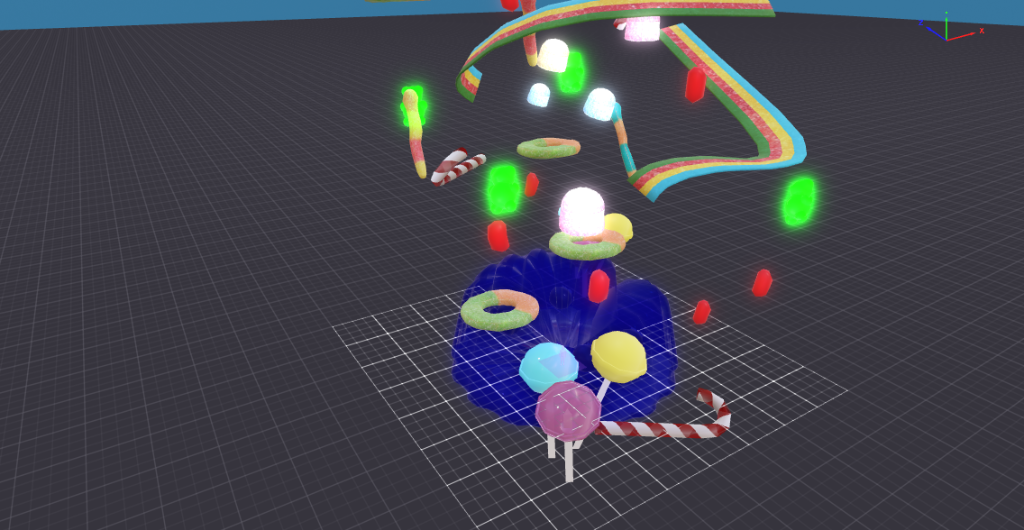
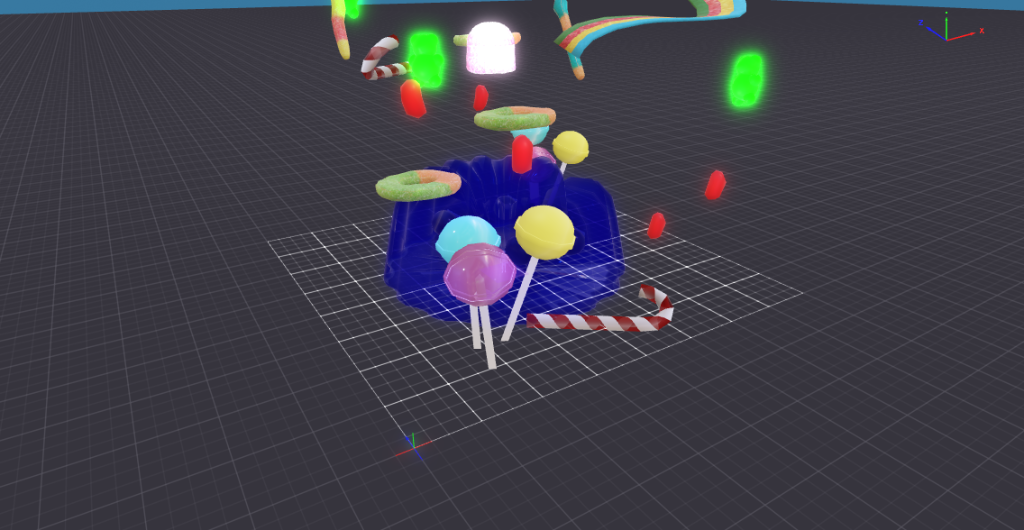
Update Candy Rush UI polish

diff --git a/src/ui.tsx b/src/ui.tsx
@@ -275,7 +275,7 @@ function handleCloseFinish() {
 }
 
 // ── Palette ───────────────────────────────────────────────────────────────────
-const RED = { r: 0.2, g: 1, b: 0.3, a: 1 }
+const RED = { r: 0.259, g: 0.384, b: 0.153, a: 1 }
 const BLUE = { r: 0.6, g: 0.2, b: 0.8, a: 1 }
 const GOLD = { r: 1, g: 0.84, b: 0, a: 1 }
 const WHT = { r: 1, g: 1, b: 1, a: 1 }
@@ -294,7 +294,7 @@ export const uiMenu = () => {
       ? { ...RED, a: popupAlpha }
       : _popupTeam === 'blue'
         ? { ...BLUE, a: popupAlpha }
-        : { r: 1, g: 0.9, b: 0.2, a: popupAlpha }
+        : { ...RED, a: popupAlpha }
   const popupText = _popupTeam === 'red' ? '+1  GREEN' : _popupTeam === 'blue' ? '+1  PURPLE' : '+ 1  Collected!'
 
   const teamColor = _localTeam === 'red' ? RED : BLUE
@@ -674,17 +674,19 @@ export const uiMenu = () => {
                 }}
                 onMouseDown={() => _modeSelectCallback?.('team')}
               />
-              <UiEntity
-                uiTransform={{
-                  width: _modeMenuCompact ? 236 : 328,
-                  height: _modeMenuCompact ? 27 : 37,
-                  margin: { bottom: _modeMenuCompact ? 11 : 15 }
-                }}
-                uiBackground={{
-                  textureMode: 'stretch',
-                  texture: { src: 'assets/ui/choosemodeui/teamvsteamdescription.png' }
-                }}
-              />
+              {!_modeMenuCompact && (
+                <UiEntity
+                  uiTransform={{
+                    width: 328,
+                    height: 37,
+                    margin: { bottom: 15 }
+                  }}
+                  uiBackground={{
+                    textureMode: 'stretch',
+                    texture: { src: 'assets/ui/choosemodeui/teamvsteamdescription.png' }
+                  }}
+                />
+              )}
             </UiEntity>
             <UiEntity uiTransform={{ flexDirection: 'column', alignItems: 'center', width: '100%' }}>
               <UiEntity
@@ -696,17 +698,19 @@ export const uiMenu = () => {
                 uiBackground={{ textureMode: 'stretch', texture: { src: 'assets/ui/choosemodeui/solorunbutton.png' } }}
                 onMouseDown={() => _modeSelectCallback?.('solo')}
               />
-              <UiEntity
-                uiTransform={{
-                  width: _modeMenuCompact ? 220 : 308,
-                  height: _modeMenuCompact ? 13 : 18,
-                  margin: { bottom: _modeMenuCompact ? 10 : 15 }
-                }}
-                uiBackground={{
-                  textureMode: 'stretch',
-                  texture: { src: 'assets/ui/choosemodeui/solomodedescription.png' }
-                }}
-              />
+              {!_modeMenuCompact && (
+                <UiEntity
+                  uiTransform={{
+                    width: 295,
+                    height: 15,
+                    margin: { bottom: 15 }
+                  }}
+                  uiBackground={{
+                    textureMode: 'stretch',
+                    texture: { src: 'assets/ui/choosemodeui/solomodedescription.png' }
+                  }}
+                />
+              )}
             </UiEntity>
           </UiEntity>
         </UiEntity>

diff --git a/src/index.ts b/src/index.ts
@@ -698,24 +698,8 @@ function updateCandySurfaceEffects(dt: number, pos: { x: number; y: number; z: n
     return
   }
 
-  const onStripeSurface = stickyStripes.some((stripe) =>
-    isPlayerOnSurface(
-      pos,
-      stripe,
-      STRIPE_STICKY_VERTICAL_BELOW,
-      STRIPE_STICKY_VERTICAL_ABOVE,
-      STRIPE_STICKY_HORIZONTAL_PADDING
-    )
-  )
-  const inStripeGlue = onStripeSurface || stickyStripes.some((stripe) => isPlayerInStripeGlue(pos, stripe))
-  if (inStripeGlue) {
-    stripeGlueTimer = STRIPE_GLUE_HOLD_DURATION
-  } else {
-    stripeGlueTimer = Math.max(0, stripeGlueTimer - dt)
-  }
-  const onStickyStripe = inStripeGlue || stripeGlueTimer > 0
-  setStickyInput(onStickyStripe)
-  if (onStickyStripe && !activeJelloJump) applyStripeSlowDrag(pos)
+  stripeGlueTimer = 0
+  setStickyInput(false)
 
   if (activeJelloJump) {
     for (const jello of jellos) updateJelloAnimation(jello, dt)
@@ -1777,18 +1761,6 @@ export function main() {
   function ensureCandySurfacesInitialized() {
     for (const [entity, gltf, transform] of engine.getEntitiesWith(GltfContainer, Transform)) {
       const entityName = Name.getOrNull(entity)?.value ?? ''
-
-      if (isStripeIdentifier(gltf.src, entityName) && !stickyStripes.some((stripe) => stripe.entity === entity)) {
-        for (const profile of getStripeProfiles(gltf.src, entityName)) {
-          stickyStripes.push({
-            entity,
-            basePosition: Vector3.create(transform.position.x, transform.position.y, transform.position.z),
-            baseRotation: Quaternion.create(transform.rotation.x, transform.rotation.y, transform.rotation.z, transform.rotation.w),
-            baseScale: Vector3.create(transform.scale.x, transform.scale.y, transform.scale.z),
-            profile
-          })
-        }
-      }
 
       if (isJelloIdentifier(gltf.src, entityName) && !jellos.some((jello) => jello.entity === entity)) {
         jellos.push({

diff --git a/README.md b/README.md
@@ -1,6 +1,6 @@
 # Candy Rush: Glide Adventure
 
-![Candy Rush](docs/readmeimage.png)
+![Candy Rush](docs/readmeimage.jpg)
 
 This Glide Adventure is a fast candy-world race where players bounce on jello, jump of falling gumdrops, and glide to  collect gummy bears before time runs out. Sweet, chaotic, and built for quick competitive fun.
 